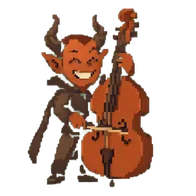
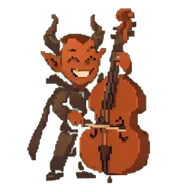
perf(web): サバイバル/耳コピのキャラWebP化とOSMDチュートリアル鍵盤の先読みを改善する
降下マップ・バトル立ち絵/ポーズをWebPに置き換えて転送を削減し、鍵盤オーバーレイの二重遅延読み込みを解消してチュートリアルで表示されない問題を防ぐ。

diff --git a/src/utils/constants.ts b/src/utils/constants.ts
@@ -6,28 +6,28 @@
 export const DEFAULT_AVATAR_URL = '/default_avater/default-avater.webp';
 
 /** 耳コピバトル画面のプレイヤー（自分）側キャラ立ち絵 */
-export const EAR_TRAINING_PLAYER_AVATAR_URL = '/default_avater/default-avater.png';
+export const EAR_TRAINING_PLAYER_AVATAR_URL = '/default_avater/default-avater.webp';
 
 /** 耳コピバトル画面の敵キャラ候補 */
 export const EAR_TRAINING_ENEMY_AVATAR_URLS: readonly string[] = [
-  '/stage_icons/1.png',
-  '/stage_icons/2.png',
-  '/stage_icons/3.png',
-  '/stage_icons/4.png',
-  '/stage_icons/5.png',
-  '/stage_icons/6.png',
-  '/stage_icons/7.png',
-  '/stage_icons/8.png',
-  '/stage_icons/9.png',
-  '/stage_icons/10.png',
+  '/stage_icons/1.webp',
+  '/stage_icons/2.webp',
+  '/stage_icons/3.webp',
+  '/stage_icons/4.webp',
+  '/stage_icons/5.webp',
+  '/stage_icons/6.webp',
+  '/stage_icons/7.webp',
+  '/stage_icons/8.webp',
+  '/stage_icons/9.webp',
+  '/stage_icons/10.webp',
 ];
 
 /** 右向きの素材を敵側で左向きに表示するための対象URL */
 export const EAR_TRAINING_ENEMY_AVATAR_FLIP_X_URLS: ReadonlySet<string> = new Set([
-  '/stage_icons/1.png',
-  '/stage_icons/2.png',
-  '/stage_icons/4.png',
-  '/stage_icons/7.png',
-  '/stage_icons/8.png',
-  '/stage_icons/9.png',
+  '/stage_icons/1.webp',
+  '/stage_icons/2.webp',
+  '/stage_icons/4.webp',
+  '/stage_icons/7.webp',
+  '/stage_icons/8.webp',
+  '/stage_icons/9.webp',
 ]);

diff --git a/src/utils/descentMapAssets.ts b/src/utils/descentMapAssets.ts
@@ -1,0 +1,31 @@
+import { BOSS_SPRITE_PATH } from '@/components/survival/boss/SurvivalBossTypes';
+import { SURVIVAL_DEFAULT_SPRITE_PATHS } from '@/utils/survivalPlayerSprites';
+
+/** 降下マップ静的アセットのキャッシュバスター（WebP 化時に更新） */
+export const DESCENT_MAP_ASSET_VERSION = '20260707a';
+
+export const descentMapAssetUrl = (path: string): string => {
+  const base = path.split('?')[0] ?? path;
+  return `${base}?v=${DESCENT_MAP_ASSET_VERSION}`;
+};
+
+export const DESCENT_MAP_TEXTURE_URLS = {
+  background: descentMapAssetUrl('/background.webp'),
+  odoriba: descentMapAssetUrl('/odoriba.webp'),
+  bigOdoriba: descentMapAssetUrl('/big_odoriba.webp'),
+  door: descentMapAssetUrl('/door.webp'),
+} as const;
+
+const descentMapBossPreloadUrls = (): string[] =>
+  (Object.values(BOSS_SPRITE_PATH) as string[]).map((path) => descentMapAssetUrl(path));
+
+/** マップ表示前に先読みする画像（環境テクスチャ + 最前線キャラ + ボス） */
+export const DESCENT_MAP_PRELOAD_IMAGES: readonly string[] = [
+  DESCENT_MAP_TEXTURE_URLS.background,
+  DESCENT_MAP_TEXTURE_URLS.bigOdoriba,
+  DESCENT_MAP_TEXTURE_URLS.odoriba,
+  DESCENT_MAP_TEXTURE_URLS.door,
+  descentMapAssetUrl(SURVIVAL_DEFAULT_SPRITE_PATHS.migi),
+  descentMapAssetUrl(SURVIVAL_DEFAULT_SPRITE_PATHS.shita),
+  ...descentMapBossPreloadUrls(),
+];

diff --git a/src/components/earTraining/EarTrainingPianoOverlay.tsx b/src/components/earTraining/EarTrainingPianoOverlay.tsx
@@ -7,15 +7,8 @@ import React, {
   useRef,
   useState,
 } from 'react';
-import type { PIXINotesRendererInstance } from '@/components/piano/PIXINotesRenderer';
+import { PIXINotesRenderer, type PIXINotesRendererInstance } from '@/components/piano/PIXINotesRenderer';
 import { getWindow } from '@/platform';
-
-type PixiNotesRendererComponent = React.ComponentType<{
-  width: number;
-  height: number;
-  onReady?: (renderer: PIXINotesRendererInstance | null) => void;
-  className?: string;
-}>;
 
 export interface EarTrainingPianoOverlayHandle {
   highlightKey: (midiNote: number, active: boolean) => void;
@@ -53,21 +46,6 @@ const EarTrainingPianoOverlay = forwardRef<EarTrainingPianoOverlayHandle, EarTra
   const isProgrammaticScrollRef = useRef(false);
   const [renderer, setRenderer] = useState<PIXINotesRendererInstance | null>(null);
   const [containerWidth, setContainerWidth] = useState(0);
-  const [PixiNotesRenderer, setPixiNotesRenderer] = useState<PixiNotesRendererComponent | null>(null);
-
-  useEffect(() => {
-    let cancelled = false;
-    void import('@/components/piano/PIXINotesRenderer')
-      .then((mod) => {
-        if (!cancelled) {
-          setPixiNotesRenderer(() => mod.PIXINotesRenderer);
-        }
-      })
-      .catch(() => undefined);
-    return () => {
-      cancelled = true;
-    };
-  }, []);
 
   useEffect(() => {
     onPianoKeyDownRef.current = onPianoKeyDown;
@@ -222,15 +200,13 @@ const EarTrainingPianoOverlay = forwardRef<EarTrainingPianoOverlayHandle, EarTra
     requestCenterPianoC4();
   }, [containerWidth, layout.needsScroll, renderer, requestCenterPianoC4]);
 
-  const piano = PixiNotesRenderer ? (
-    <PixiNotesRenderer
+  const piano = (
+    <PIXINotesRenderer
       width={layout.pixiWidth}
       height={PIANO_HEIGHT}
       onReady={handleRendererReady}
       className="h-full w-full"
     />
-  ) : (
-    <div className="h-full w-full bg-slate-900/80" aria-hidden="true" />
   );
 
   return (

diff --git a/src/utils/descentMapAssets.test.ts b/src/utils/descentMapAssets.test.ts
@@ -1,0 +1,26 @@
+import { describe, expect, it } from 'vitest';
+import {
+  DESCENT_MAP_PRELOAD_IMAGES,
+  DESCENT_MAP_TEXTURE_URLS,
+  descentMapAssetUrl,
+} from './descentMapAssets';
+
+describe('descentMapAssets', () => {
+  it('テクスチャ URL にバージョンクエリを付与する', () => {
+    expect(DESCENT_MAP_TEXTURE_URLS.background).toMatch(/^\/background\.webp\?v=/);
+    expect(DESCENT_MAP_TEXTURE_URLS.door).toMatch(/^\/door\.webp\?v=/);
+  });
+
+  it('プリロード一覧に環境・キャラ・ボス WebP を含む', () => {
+    expect(DESCENT_MAP_PRELOAD_IMAGES.length).toBeGreaterThanOrEqual(9);
+    DESCENT_MAP_PRELOAD_IMAGES.forEach((url) => {
+      expect(url).toMatch(/\.webp\?v=/);
+    });
+    expect(DESCENT_MAP_PRELOAD_IMAGES.some((url) => url.includes('migi.webp'))).toBe(true);
+    expect(DESCENT_MAP_PRELOAD_IMAGES.some((url) => url.includes('monster_45.webp'))).toBe(true);
+  });
+
+  it('descentMapAssetUrl は既存クエリを除去してバージョンを付け直す', () => {
+    expect(descentMapAssetUrl('/foo.webp?old=1')).toBe('/foo.webp?v=20260707a');
+  });
+});

diff --git a/src/components/survival/descent/SurvivalDescentMap.tsx b/src/components/survival/descent/SurvivalDescentMap.tsx
@@ -46,6 +46,7 @@ import WebPaywallModal from '@/components/ui/WebPaywallModal';
 import { FantasySoundManager } from '@/utils/FantasySoundManager';
 import { markAudioUserInteraction } from '@/utils/MidiController';
 import { ensureSurvivalBattleAudio } from '@/utils/ensureSurvivalBattleAudio';
+import { DESCENT_MAP_PRELOAD_IMAGES } from '@/utils/descentMapAssets';
 import { SurvivalMapAudio, SURVIVAL_MAP_BGM_URL } from '@/utils/SurvivalMapAudio';
 import { useGameStore } from '@/stores/gameStore';
 import {
@@ -120,13 +121,6 @@ interface SurvivalDescentMapProps {
 
 const VIEWPORT_FALLBACK_HEIGHT = 720;
 
-const DESCENT_MAP_IMAGES = [
-  '/background.webp?v=20260420b',
-  '/big_odoriba.webp?v=20260420b',
-  '/odoriba.webp?v=20260420b',
-  '/door.webp?v=20260420b',
-];
-
 interface SurvivalMapProgressSnapshot {
   currentStageNumber: number;
   clearedStages: Set<number>;
@@ -147,7 +141,7 @@ const preloadDescentImages = (): Promise<void> => {
   if (descentImagesPreloadPromise) return descentImagesPreloadPromise;
 
   descentImagesPreloadPromise = new Promise(resolve => {
-    let remaining = DESCENT_MAP_IMAGES.length;
+    let remaining = DESCENT_MAP_PRELOAD_IMAGES.length;
     if (remaining === 0) {
       resolve();
       return;
@@ -156,7 +150,7 @@ const preloadDescentImages = (): Promise<void> => {
       remaining -= 1;
       if (remaining === 0) resolve();
     };
-    DESCENT_MAP_IMAGES.forEach(src => {
+    DESCENT_MAP_PRELOAD_IMAGES.forEach(src => {
       const img = new Image();
       img.onload = done;
       img.onerror = done;

diff --git a/src/utils/survivalPlayerSprites.ts b/src/utils/survivalPlayerSprites.ts
@@ -9,11 +9,11 @@ export type SurvivalDefaultSpriteVariant =
   | 'ue';
 
 export const SURVIVAL_DEFAULT_SPRITE_PATHS: Record<SurvivalDefaultSpriteVariant, string> = {
-  migi: '/default_avater/muki/migi.png',
-  naname_migi_shita: '/default_avater/muki/naname_migi_shita.png',
-  naname_migi_ue: '/default_avater/muki/naname_migi_ue.png',
-  shita: '/default_avater/muki/shita.png',
-  ue: '/default_avater/muki/ue.png',
+  migi: '/default_avater/muki/migi.webp',
+  naname_migi_shita: '/default_avater/muki/naname_migi_shita.webp',
+  naname_migi_ue: '/default_avater/muki/naname_migi_ue.webp',
+  shita: '/default_avater/muki/shita.webp',
+  ue: '/default_avater/muki/ue.webp',
 };
 
 export const SURVIVAL_DEFAULT_SPRITE_VARIANTS: readonly SurvivalDefaultSpriteVariant[] = [

diff --git a/src/components/earTraining/DeferredEarTrainingPianoOverlay.tsx b/src/components/earTraining/DeferredEarTrainingPianoOverlay.tsx
@@ -12,11 +12,18 @@ interface DeferredEarTrainingPianoOverlayProps {
   onPianoKeyUp: (note: number) => void;
 }
 
+const PIANO_OVERLAY_FALLBACK = (
+  <div
+    className="pointer-events-auto absolute inset-x-0 bottom-0 z-20 h-[88px] bg-slate-900/85"
+    aria-hidden="true"
+  />
+);
+
 const DeferredEarTrainingPianoOverlay = React.forwardRef<
   EarTrainingPianoOverlayHandle,
   DeferredEarTrainingPianoOverlayProps
 >((props, ref) => (
-  <Suspense fallback={null}>
+  <Suspense fallback={PIANO_OVERLAY_FALLBACK}>
     <LazyEarTrainingPianoOverlay ref={ref} {...props} />
   </Suspense>
 ));

diff --git a/src/components/earTraining/EarTrainingPianoOverlay.test.tsx b/src/components/earTraining/EarTrainingPianoOverlay.test.tsx
@@ -1,8 +1,5 @@
-import React from 'react';
 import { render, waitFor } from '@testing-library/react';
 import { describe, expect, it, vi } from 'vitest';
-
-import { runWhenIdle } from '@/utils/idlePrefetch';
 
 import EarTrainingPianoOverlay from './EarTrainingPianoOverlay';
 
@@ -11,11 +8,7 @@ vi.mock('@/components/piano/PIXINotesRenderer', () => ({
 }));
 
 describe('EarTrainingPianoOverlay', () => {
-  it('prefetch 後でも mount 時に Pixi 鍵盤を表示する', async () => {
-    runWhenIdle(`chunk:ear-training-piano-pixi-prefetch-${Date.now()}`, () => {
-      void import('@/components/piano/PIXINotesRenderer').catch(() => undefined);
-    });
-
+  it('mount 時に Pixi 鍵盤を表示する', async () => {
     render(
       <EarTrainingPianoOverlay
         onPianoKeyDown={() => undefined}

diff --git a/src/game/earTraining/canvas/earTrainingBattleBackground.ts b/src/game/earTraining/canvas/earTrainingBattleBackground.ts
@@ -297,12 +297,9 @@ export const BACKGROUND_IMAGE_URLS: Record<string, string> = {
 
 export const PLAYER_POSE_IMAGE_URLS: Record<string, string> = {
   correct3: '/data/correct3.webp',
-  guardD: '/GuardD.png',
-  finish: '/finish.png',
-  yokoIssen: '/yoko_issen.png',
-  yokoIssenB: '/yoko_issen_B.png',
-  yokoIssenC: '/yoko_issen_C.png',
-  cast: '/data/eishou.png',
+  guardD: '/GuardD.webp',
+  finish: '/finish.webp',
+  cast: '/data/eishou.webp',
   skill1: '/data/Frame1.webp',
   skill2: '/data/Frame2.webp',
   skill3: '/data/Frame3.webp',

diff --git a/src/components/survival/boss/SurvivalBossTypes.ts b/src/components/survival/boss/SurvivalBossTypes.ts
@@ -195,9 +195,9 @@ export const HEALING_AMOUNT = 40; // プレイヤー最大HPの4%
 
 // ===== 画像パス（public 配下） =====
 export const BOSS_SPRITE_PATH: Record<BossType, string> = {
-  A: `${import.meta.env.BASE_URL}monster_icons/monster_45.png`, // ゴリラ（重量感）
-  B: `${import.meta.env.BASE_URL}monster_icons/monster_50.png`, // オレンジ（召喚主）
-  C: `${import.meta.env.BASE_URL}monster_icons/monster_63.png`, // 青ネコ（領域支配・神秘）
+  A: `${import.meta.env.BASE_URL}monster_icons/monster_45.webp`, // ゴリラ（重量感）
+  B: `${import.meta.env.BASE_URL}monster_icons/monster_50.webp`, // オレンジ（召喚主）
+  C: `${import.meta.env.BASE_URL}monster_icons/monster_63.webp`, // 青ネコ（領域支配・神秘）
 };
 
 export const BOSS_DISPLAY_NAME: Record<BossType, { ja: string; en: string }> = {

diff --git a/src/utils/prefetchEarTrainingScreenChunks.ts b/src/utils/prefetchEarTrainingScreenChunks.ts
@@ -2,6 +2,7 @@ import type { EarTrainingStage } from '@/types';
 import type { LessonRequirementProgress } from '@/platform/supabaseLessonRequirements';
 import { preloadEarTrainingStageDetails } from '@/platform/earTrainingStageDetailCache';
 import { preloadBattleGmPiano, preloadBattleCountInClick } from '@/utils/ensureBattlePianoAudio';
+import { preloadEarTrainingPianoOverlay } from '@/utils/preloadEarTrainingPianoOverlay';
 import { runWhenIdle } from '@/utils/idlePrefetch';
 
 export interface EarTrainingPrefetchEntry {
@@ -104,8 +105,6 @@ export const prefetchEarTrainingResourcesForLesson = (
   if (selectedEntries.length > 0) {
     preloadBattleGmPiano();
     preloadBattleCountInClick();
-    runWhenIdle('chunk:ear-training-piano-pixi-prefetch', () => {
-      void import('@/components/piano/PIXINotesRenderer').catch(() => undefined);
-    });
+    preloadEarTrainingPianoOverlay();
   }
 };

diff --git a/src/utils/preloadEarTrainingPianoOverlay.ts b/src/utils/preloadEarTrainingPianoOverlay.ts
@@ -1,0 +1,5 @@
+/** 耳コピバトル画面で鍵盤オーバーレイと Pixi レンダラを先読みする */
+export const preloadEarTrainingPianoOverlay = (): void => {
+  void import('@/components/earTraining/EarTrainingPianoOverlay').catch(() => undefined);
+  void import('@/components/piano/PIXINotesRenderer').catch(() => undefined);
+};